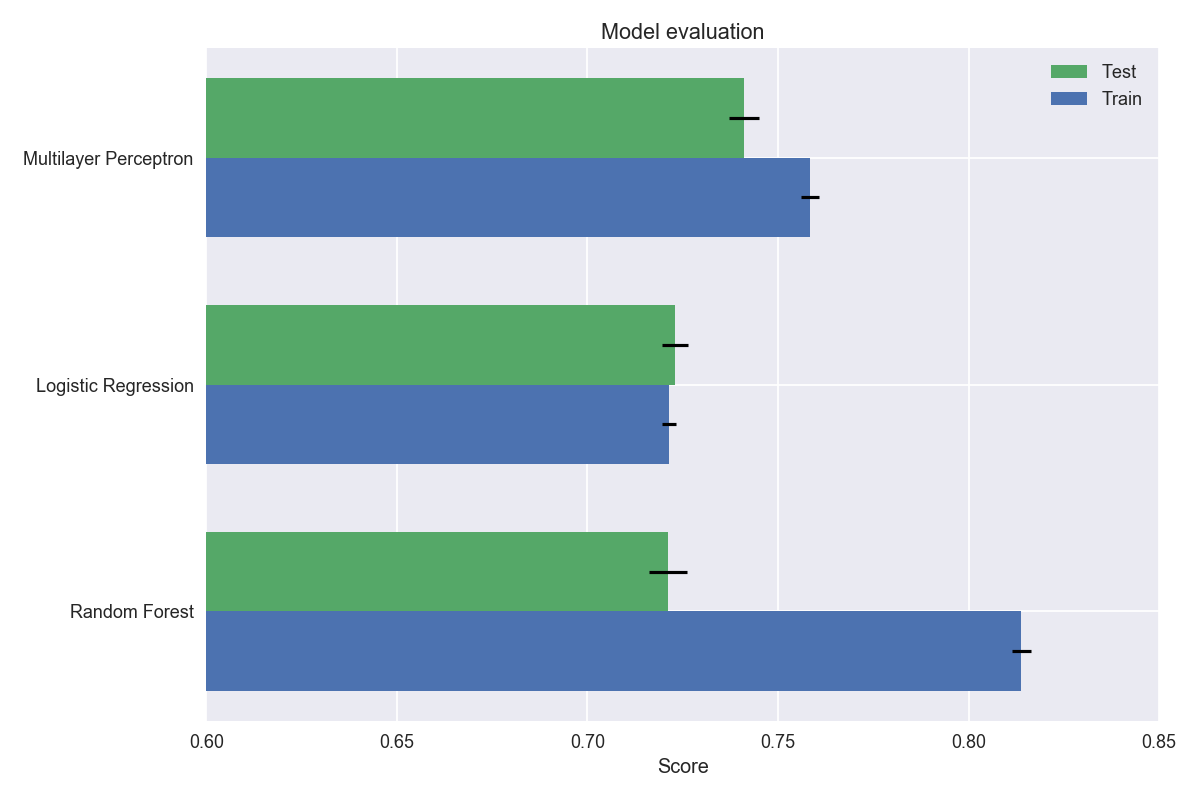
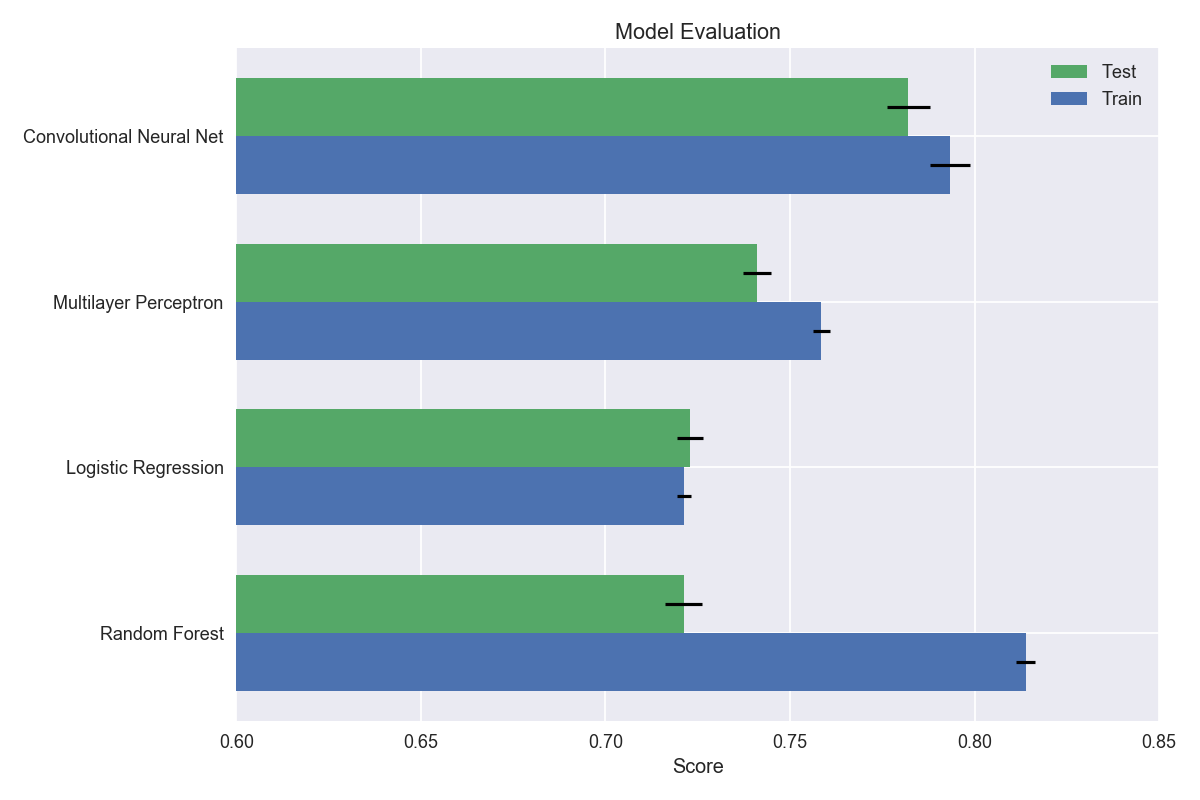
Include convolutional NN in accuracy plot

diff --git a/modules/full_classifier.py b/modules/full_classifier.py
@@ -116,6 +116,19 @@ def classifiers(X_train, X_test, y_train, y_test):
     return results
 
 
+def load_cnn_scores():
+    data = os.path.join("bin", "ScoreTrain_" + PTBIN + ".npy")
+    score_train = np.load(data)
+    data = os.path.join("bin", "ScoreTest_" + PTBIN + ".npy")
+    score_test = np.load(data)
+    score_train_mean = np.mean(score_train)
+    score_train_error = np.std(score_train)
+    score_test_mean = np.mean(score_test)
+    score_test_error = np.std(score_test)
+    return [score_train_mean, score_train_error,
+            score_test_mean, score_test_error]
+
+
 def plot_metrics(X, y):
     import matplotlib.pyplot as plt
     fig, ax = plt.subplots(1, 3, sharey=True, figsize=(16, 6))
@@ -150,18 +163,24 @@ def plot_metrics(X, y):
         score_train_error[i] = np.std(score_train[m])
         score_test_mean[i] = np.mean(score_test[m])
         score_test_error[i] = np.std(score_test[m])
+    # Append CNN scores
+    cnn_scores = load_cnn_scores()
+    score_train_mean = [cnn_scores[0]] + score_train_mean
+    score_train_error = [cnn_scores[1]] + score_train_error
+    score_test_mean = [cnn_scores[2]] + score_test_mean
+    score_test_error = [cnn_scores[3]] + score_test_error
     # Accuracy plot
     __, ax = plt.subplots(1, 1, figsize=(12, 8))
-    bars = np.array([2, 1, 0])
+    bars = np.array([3, 2, 1, 0])
     width = 0.35
     hist1 = ax.barh(bars, score_train_mean, width, xerr=score_train_error)
     hist2 = ax.barh(bars+width, score_test_mean, width, xerr=score_test_error)
     # Adjust axis
-    ax.set_title('Model evaluation')
+    ax.set_title('Model Evaluation')
     ax.set_xlabel('Score')
     ax.set_xlim([.60, .85])
     ax.set_yticks(bars + 0.5*width)
-    ax.set_yticklabels(MODELS)
+    ax.set_yticklabels(["Convolutional Neural Net"] + MODELS)
     # Add legend
     ax.legend((hist2, hist1), ('Test', 'Train'))
     plt.tight_layout()
